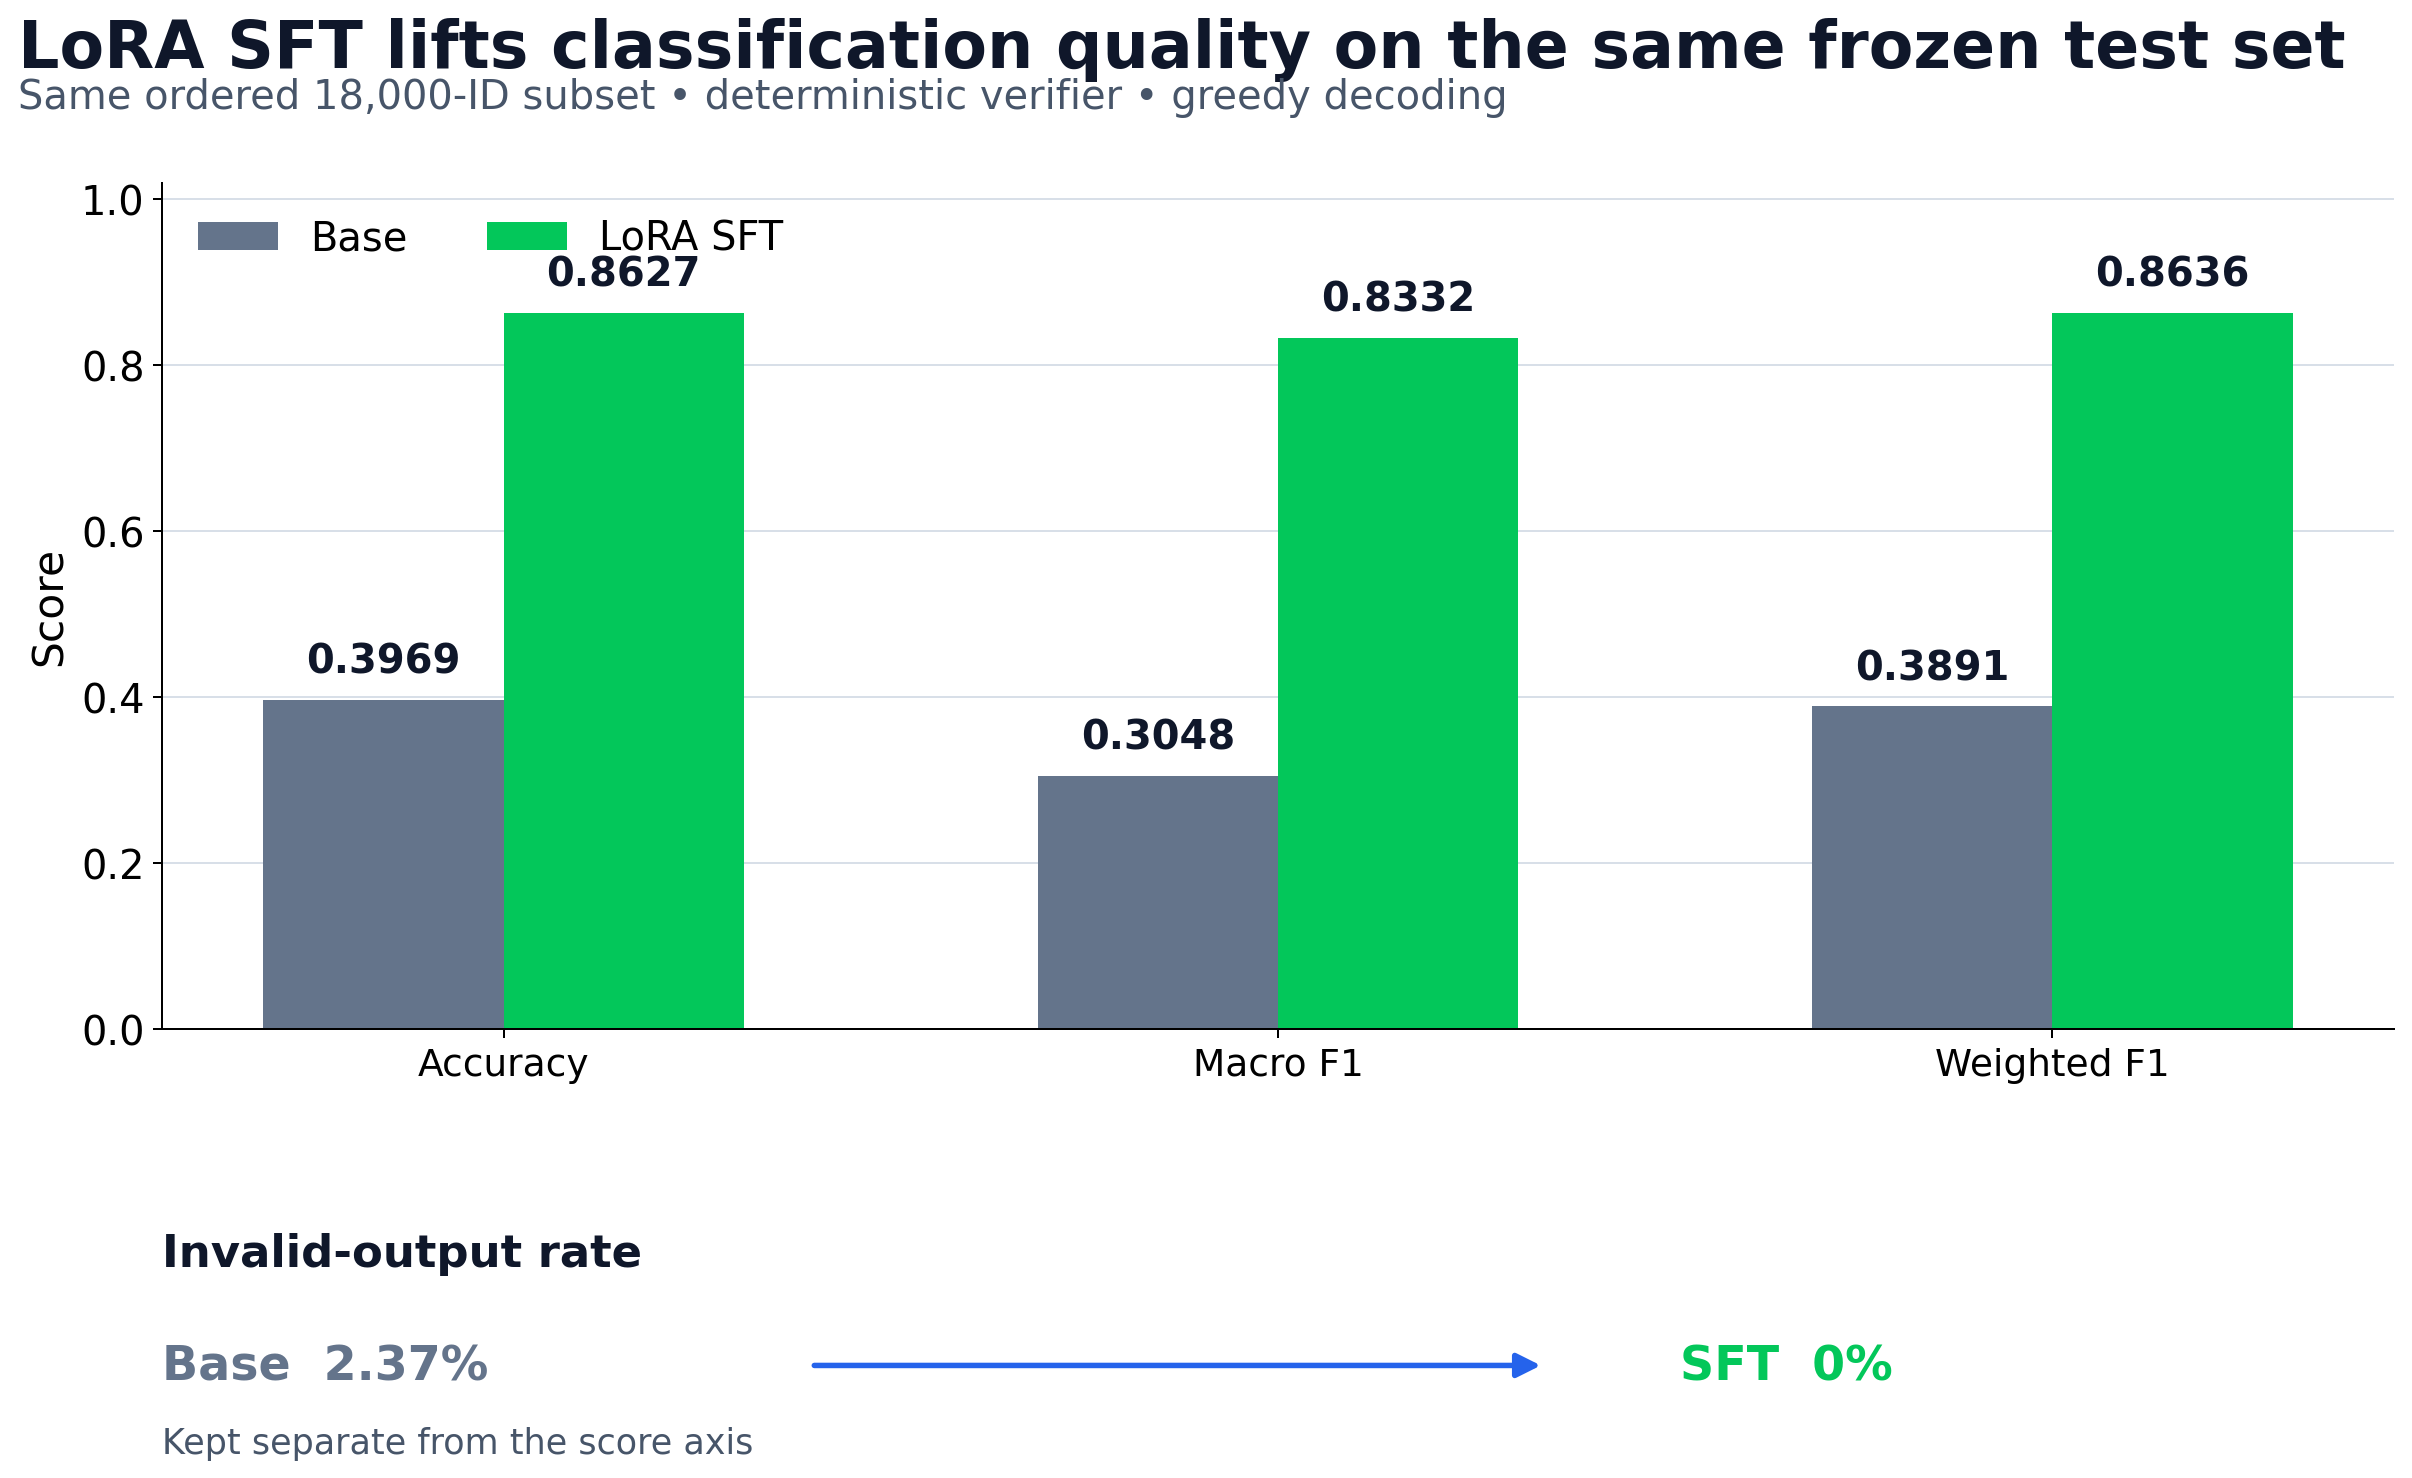
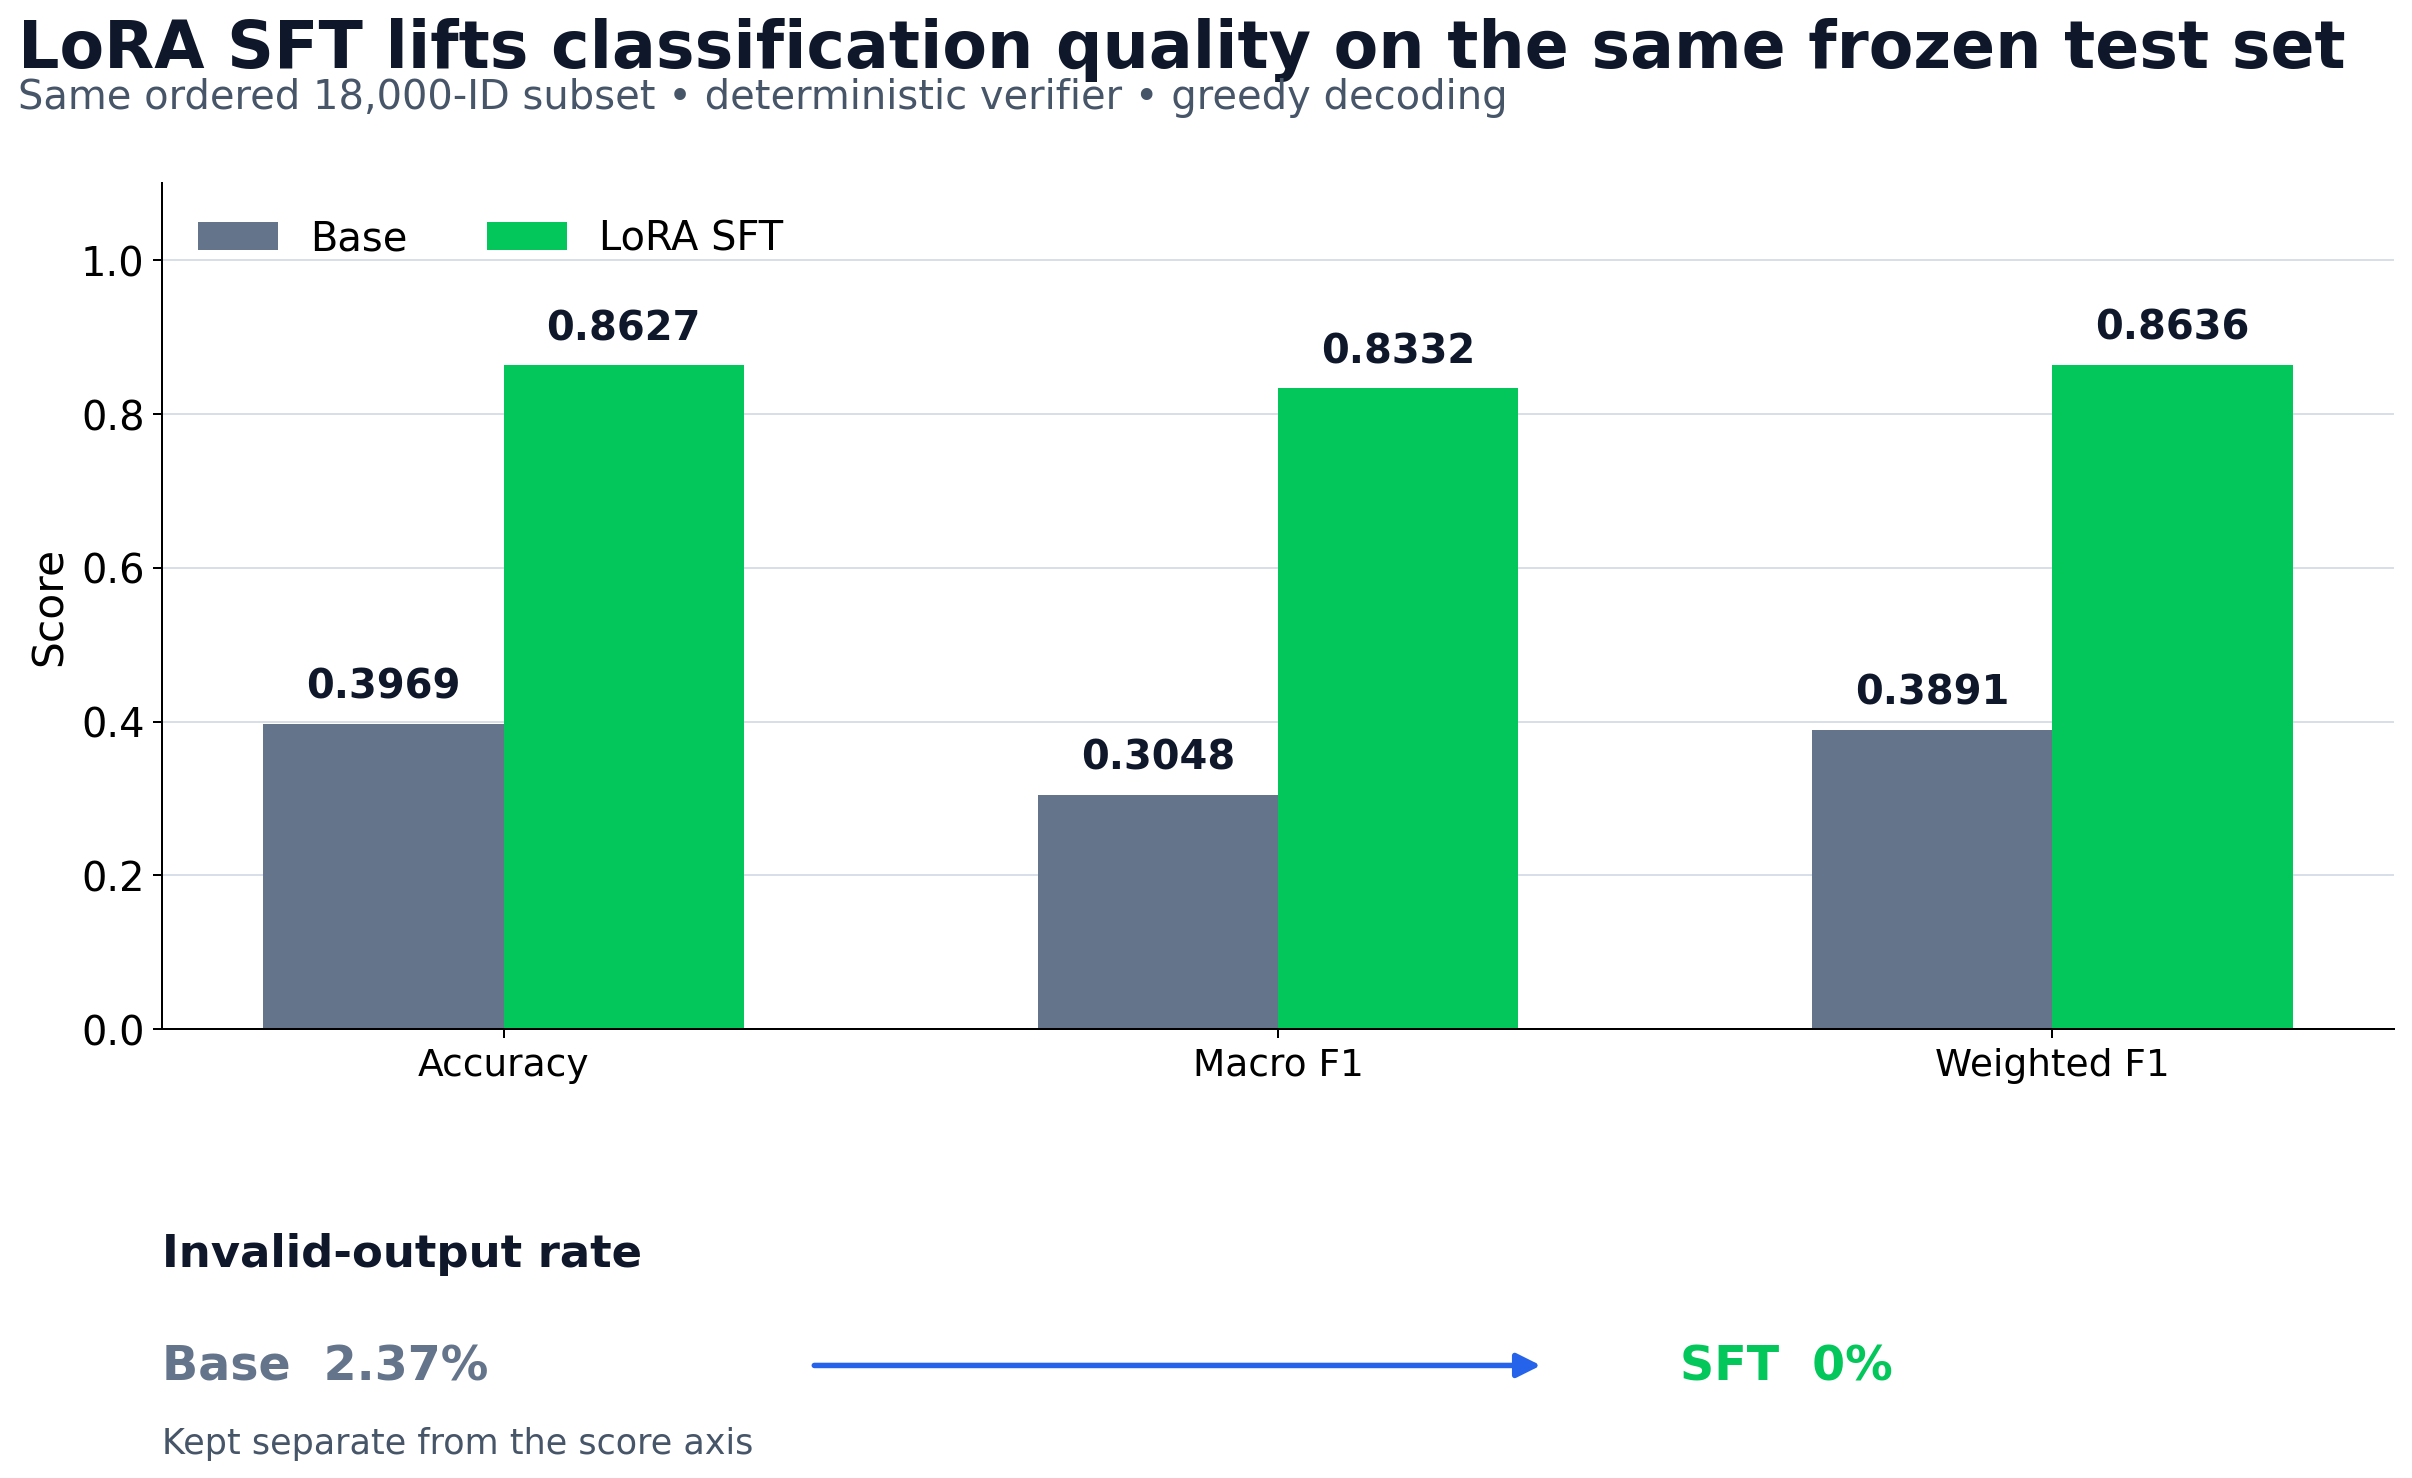
T-PORT: polish chart layout (legend placement)

diff --git a/portfolio/scripts/generate_assets.py b/portfolio/scripts/generate_assets.py
@@ -72,7 +72,7 @@ def primary_result(base: dict, sft: dict) -> None:
     sft_bars = ax.bar(
         [i + width / 2 for i in x], sft_values, width, color=SFT_COLOR, label="LoRA SFT"
     )
-    ax.set_ylim(0, 1.02)
+    ax.set_ylim(0, 1.10)
     ax.set_ylabel("Score")
     ax.set_xticks(list(x), labels)
     ax.set_yticks([0, 0.2, 0.4, 0.6, 0.8, 1.0])
